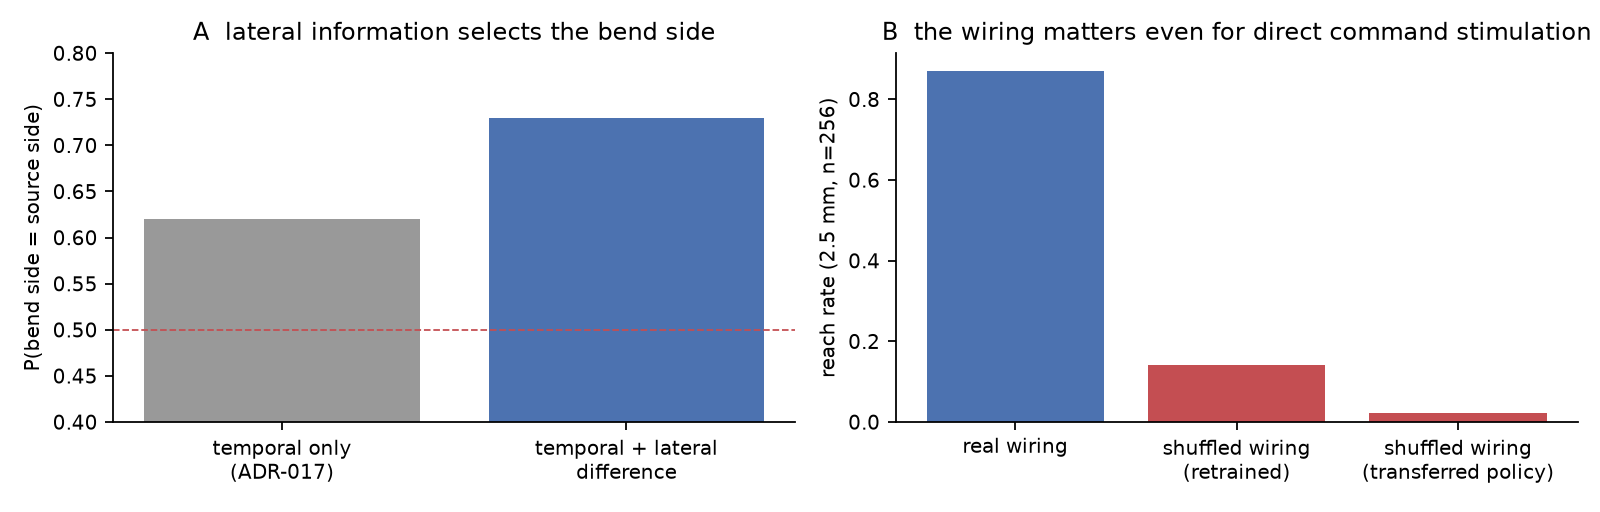
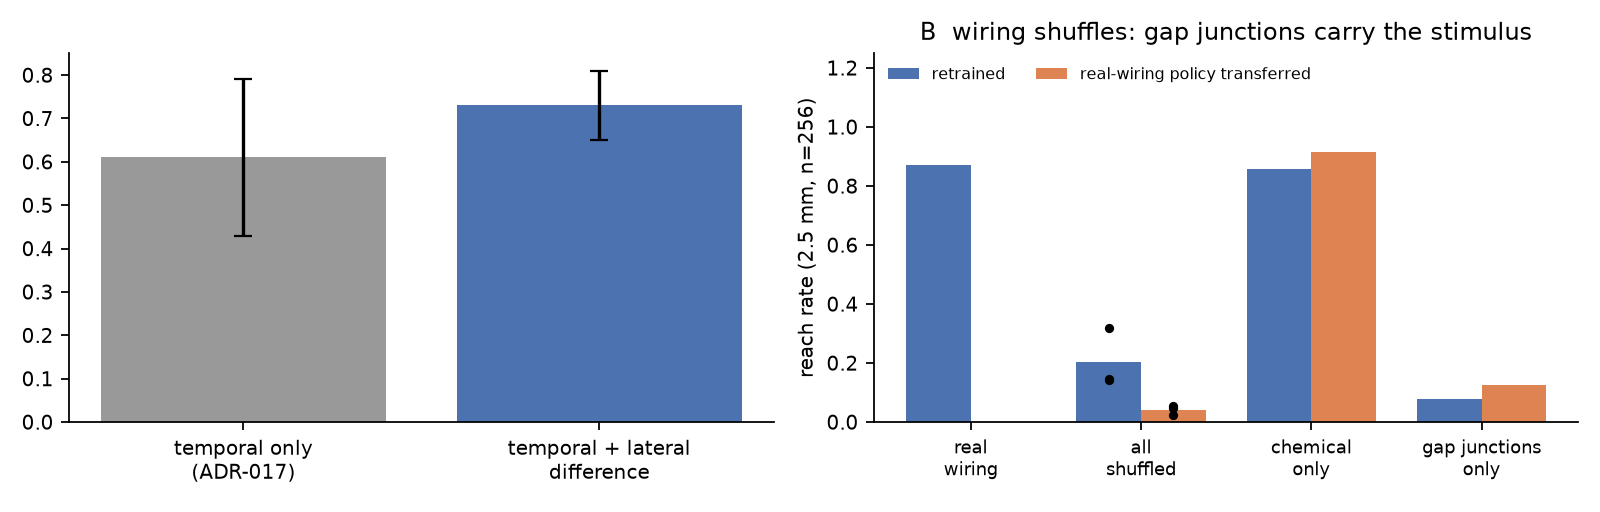
E7 complete: chemical-only shuffle intact, gap-junction-only shuffle collapses (double dissociation); fig6, README, CIs updated
Claude-Session: https://claude.ai/code/session_01G3sevEHzRVbnrYisjMGTcY

diff --git a/experiments/paper_figures.py b/experiments/paper_figures.py
@@ -1,6 +1,7 @@
 """논문 그림 초안 (기존 산출물만 사용). docs/figures/fig2–fig6.png.
 fig2 H1 학습 곡선 + 정책 스윕 | fig3 최소 회로 절제 + 피루엣 규칙 | fig4 미로 궤적(녹화 장면) | fig5 굽힘 방향 = 회전 방향 (스왑·규칙·폭) | fig6 좌우 정보와 굽힘 방향 선택 + 배선 대조군"""
 import os, sys, json, numpy as np; sys.path.insert(0, os.getcwd())
+import numpy as np
 import matplotlib; matplotlib.use("Agg"); import matplotlib.pyplot as plt
 OUT = "docs/figures"; os.makedirs(OUT, exist_ok=True); plt.rcParams.update({"font.size": 9, "axes.spines.top": False, "axes.spines.right": False})
 def J(p): return json.load(open(p))
@@ -45,7 +46,12 @@ ax[1].set_xlabel("corridor width (mm)"); ax[1].set_ylabel("reach rate"); ax[1].s
 fig.tight_layout(); fig.savefig(f"{OUT}/fig5_bend_direction.png", dpi=160); plt.close(fig)
 # ---- fig6: lateral info + wiring control
 fig, ax = plt.subplots(1, 2, figsize=(10, 3.2))
-ax[0].bar(["temporal only\n(ADR-017)", "temporal + lateral\ndifference"], [0.62, 0.73], color=["#999", "#4c72b0"]); ax[0].axhline(0.5, color="#c44e52", ls="--", lw=0.8); ax[0].set_ylim(0.4, 0.8); ax[0].set_ylabel("P(bend side = source side)"); ax[0].set_title("A  lateral information selects the bend side")
-ax[1].bar(["real wiring", "shuffled wiring\n(retrained)", "shuffled wiring\n(transferred policy)"], [0.871, 0.141, 0.023], color=["#4c72b0", "#c44e52", "#c44e52"]); ax[1].set_ylabel("reach rate (2.5 mm, n=256)"); ax[1].set_title("B  the wiring matters even for direct command stimulation")
+ax[0].bar(["temporal only\n(ADR-017)", "temporal + lateral\ndifference"], [0.61, 0.73], yerr=[0.18, 0.08], capsize=4, color=["#999", "#4c72b0"])   # E9 episode means ± sd (128 episodes); ax[0].axhline(0.5, color="#c44e52", ls="--", lw=0.8); ax[0].set_ylim(0.4, 0.8); ax[0].set_ylabel("P(bend side = source side)"); ax[0].set_title("A  lateral information selects the bend side")
+# E5/E7 (paper/*_far/eval*.txt): retrained / transferred reach; full shuffle = 3 seeds (0.141, 0.145, 0.320 / 0.023, 0.055, 0.047)
+labels = ["real\nwiring", "all\nshuffled", "chemical\nonly", "gap junctions\nonly"]; retr = [0.871, np.mean([0.141, 0.145, 0.320]), 0.859, 0.078]; trans = [np.nan, np.mean([0.023, 0.055, 0.047]), 0.914, 0.125]
+xx = np.arange(4); w = 0.38
+ax[1].bar(xx - w / 2, retr, w, color="#4c72b0", label="retrained"); ax[1].bar(xx + w / 2, trans, w, color="#dd8452", label="real-wiring policy transferred")
+ax[1].scatter([1 - w / 2] * 3, [0.141, 0.145, 0.320], color="k", s=10, zorder=3); ax[1].scatter([1 + w / 2] * 3, [0.023, 0.055, 0.047], color="k", s=10, zorder=3)
+ax[1].set_xticks(xx); ax[1].set_xticklabels(labels, fontsize=8); ax[1].set_ylim(0, 1.25); ax[1].legend(frameon=False, fontsize=7, loc="upper left", ncol=2); ax[1].set_ylabel("reach rate (2.5 mm, n=256)"); ax[1].set_title("B  wiring shuffles: gap junctions carry the stimulus")
 fig.tight_layout(); fig.savefig(f"{OUT}/fig6_lateral_and_wiring.png", dpi=160); plt.close(fig)
 print("figures written:", sorted(os.listdir(OUT)))

diff --git a/README.md b/README.md
@@ -23,7 +23,7 @@ Every hypothesis was pre-registered with its judgement criterion before training
 | Does learning rediscover the pirouette rule? | ✓ (rule) / △ (sufficiency) | falling C → reverse + omega, rising → run (ρ = −1.00 in 2 of 3 seeds); reversal-onset rate falls monotonically with dC/dt as in Pierce-Shimomura 1999. Reversal + omega alone: 2 seeds fail (0.05–0.11), 1 seed finds a bend-always strategy that reaches 0.328 at 2.5 mm (full circuit 0.914) |
 | What is the minimal circuit? | | reversal (AVA) + deep bend (RIV) + steering (SMD): ablating any one drops the trained policy to 0.07–0.27; retraining without RIV fails (0.19), without SMD reaches at most 0.33 |
 | Is a sleep neuron (RIS) needed to stop? | ✗ | never used; the agent stops by withdrawing command drive |
-| Does the actual wiring matter when command neurons are stimulated directly? | ✓ | shuffled wiring (same weights, counts and signs): 0.141 after retraining, 0.023 for the transferred policy, vs 0.871 for the real wiring — deep-bend pulses almost never fire in the shuffled network |
+| Does the actual wiring matter when command neurons are stimulated directly? | ✓ | shuffled wiring (same weights, counts and signs): 0.14 / 0.15 / 0.32 after retraining (3 seeds), 0.02–0.06 for the transferred policy, vs 0.871 for the real wiring — deep-bend pulses rarely fire in shuffled networks. **Layer dissociation:** shuffling only chemical synapses changes nothing (0.859 retrained, 0.914 transferred); shuffling only gap junctions collapses it (0.078 / 0.125). In these fitted dynamics the stimulus reaches the readout neurons through the gap-junction layer |
 | How are corners taken in a corridor four body-widths wide? | | only by a deep bend pressed against the wall; head steering alone 0/32. **The bend's dorsal/ventral direction is the turn direction.** |
 | Ventral-only bends (the default omega turn)? | | T-maze: enters the left arm 128/128; right-turn corridor 0/32; 3×3 grid unsolvable |
 | Let SMDD/SMDV set the bend direction (as reported in real worms)? | ✓ (ADR-017) | right-turn corridor becomes learnable (1.00) — but the policy becomes one-handed; robust across corridor widths 0.25–0.35 mm |

diff --git a/docs/SESSION_LOG.md b/docs/SESSION_LOG.md
@@ -108,7 +108,7 @@
 - E6 H1 시드 1·2 재학습, E7 배선 대조군 확장(전체 뒤섞기 시드 1·2, 화학 시냅스만, 갭정션만) 진행 중 (`runs/wormgym/h5/run_evidence_chain_*.sh`, 산출물 `runs/wormgym/paper/`).
 - 모퉁이 통과 정량 (`runs/wormgym/h5/corner_stats.out`): 평지 정책 L-통로 64/64 통과(중앙 10.0 s) 모두 직전 3 s 안에 후진 명령 + 굽힘 펄스 (1.00/1.00); T-미로 학습 정책도 64/64 통과(중앙 17.0 s), 후진 1.00 / 펄스 1.00. 즉 '후진 + 깊은 굽힘' 이 모퉁이 통과의 필요 조건이라는 관찰은 학습 이력과 무관하다.
 - E8 (정밀도 재확인, dt 0.05 ms float64, `experiments/wormgym_precision_check.py`): H1 0.938 → 0.914, ADR-017 0.844 → 0.875, T-미로 1.00/128·128 왼쪽 → 동일. 도달률·팔 선택은 정밀도에 무관, 미로 통과 시간은 미세 스텝에서 26.5 → 33.5 s. 첫 진입 지표는 |x| > 0.6 첫 교차로 고정(1.5 는 목표 팔을 재는 것).
-- E6 (H1 시드 반복): 0.914 / 0.973 / 0.301, 평균 0.73 ± 0.37; 시드 2 는 후진 규칙만 배우고 RIV 를 안 씀(국소 최적). E6b 연장 100 세대 후에도 0.324 → 후진 전용 국소 최적으로 확정. E7 전체 뒤섞기 3 시드 평균 0.202 (E5 확정), 성능은 실현 RIV 펄스 수(0/670/3599 vs 실제 6960)를 따른다.
+- E6 (H1 시드 반복): 0.914 / 0.973 / 0.301, 평균 0.73 ± 0.37; 시드 2 는 후진 규칙만 배우고 RIV 를 안 씀(국소 최적). E6b 연장 100 세대 후에도 0.324 → 후진 전용 국소 최적으로 확정. E7 전체 뒤섞기 3 시드 평균 0.202 (E5 확정), 성능은 실현 RIV 펄스 수(0/670/3599 vs 실제 6960)를 따른다. 층별: 화학 시냅스만 뒤섞기 0.859/0.914(전이) 그대로, 갭정션만 뒤섞기 0.078/0.125 붕괴 — 이중 해리. Vfit 의 화학 전도도 축소(×0.03) 한계 명시.
 - E9 (에피소드 단위 굽힘 방향 통계) 성립: 0.73 ± 0.08 vs 0.61 ± 0.18, Mann–Whitney p 2.6e−8 (PAPER_OUTLINE §7).
 - 논문 그림 초안 fig1–6 (`docs/figures/`, `experiments/paper_figures.py`). 핵심 도달률의 Wilson 95 % 신뢰구간을 PAPER_OUTLINE 에 추가.
 
